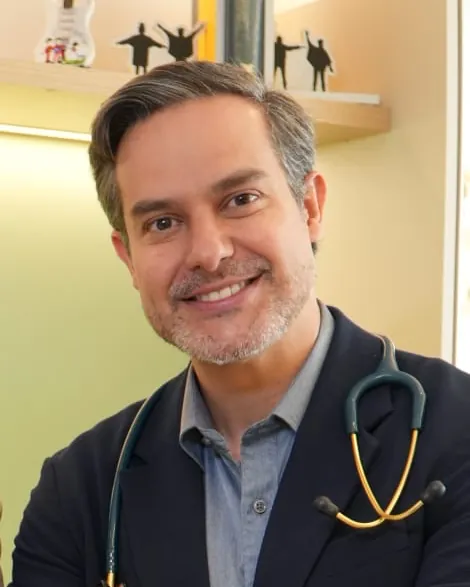
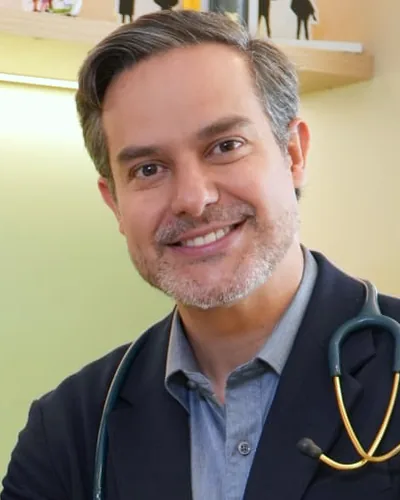
Bio: cards em retângulos, novos recortes, rodapé com monograma, TikTok

diff --git a/bio/index.html b/bio/index.html
@@ -81,37 +81,48 @@ a:focus-visible{outline:2px solid var(--gold-ink);outline-offset:4px}
 p{max-width:60ch}
 .sr{position:absolute;width:1px;height:1px;overflow:hidden;clip:rect(0 0 0 0);white-space:nowrap}
 
+/* os três caminhos: o mesmo retângulo (mesmo fundo, margem e padding) */
+.item{background:var(--field);border-radius:6px;padding:20px}
+.item + .item{margin-top:16px}
+
 /* consulta e vacinação: foto real + texto + o mesmo botão */
 .pessoa{display:grid;grid-template-columns:112px minmax(0,1fr);column-gap:18px;align-items:center}
-.pessoa .foto{width:100%;height:auto;aspect-ratio:4/5;object-fit:cover;display:block;background:var(--field)}
+.pessoa .foto{width:100%;height:auto;aspect-ratio:4/5;object-fit:cover;display:block;border-radius:3px;background:var(--bg)}
 .pessoa .btn{grid-column:1 / -1}
-.consulta{background:var(--field);margin:0 calc(var(--m) * -1);padding:24px var(--m)}
-.vacina{padding:32px 0 8px}
 
 .btn{
   display:flex;align-items:center;justify-content:center;gap:10px;
-  min-height:52px;padding:0 26px;margin-top:22px;border-radius:3px;
+  min-height:52px;padding:0 26px;margin-top:20px;border-radius:3px;
   background:var(--gold);color:var(--on-gold);font-weight:700;font-size:16px;
   transition:transform .15s,background-color .2s;
 }
 .btn svg{width:20px;height:20px;flex:none}
 .btn:hover{background:var(--gold-ink)}
 .btn:active{transform:scale(.98)}
-/* livro: mesma forma, sem o dourado cheio (é outra ação) */
-.btn-2{background:var(--field);color:var(--gold-ink)}
+/* livro: mesma forma e tamanho, cor diferente (é outra ação) */
+.btn-2{background:#223a6c;color:var(--gold-ink)}
 .btn-2 svg{width:18px;height:18px;transition:transform .2s}
-.livro:hover .btn-2{background:#1b3160}
+.livro:hover .btn-2{background:#29457f}
 .livro:hover .btn-2 svg{transform:translateX(4px)}
 
-/* livro: a capa inteira, sem corte */
-.livro{margin-top:40px}
-.livro .capa{margin:0 calc(var(--m) * -1);aspect-ratio:1200/630;overflow:hidden;background:var(--field)}
+/* livro: a capa inteira, dentro do retângulo */
+.livro{display:block}
+.livro .capa{aspect-ratio:1200/630;overflow:hidden;border-radius:3px;background:var(--bg)}
 .livro .capa img{width:100%;height:100%;object-fit:cover;display:block;transition:transform .5s}
 .livro:hover .capa img{transform:scale(1.015)}
-.livro .txt{padding-top:18px}
+.livro .txt{padding-top:16px}
 .livro .txt p{margin-top:0}
 
-footer{max-width:60ch;margin-top:64px;font-size:16px;line-height:1.6;color:var(--soft)}
+/* rodapé: fechamento com o monograma CC */
+.rodape{
+  margin-top:56px;padding-top:28px;
+  border-top:1px solid rgba(238,240,243,.10); /* taste-skill-ignore: separador pedido pelo cliente */
+  display:grid;grid-template-columns:44px minmax(0,1fr);column-gap:16px;row-gap:18px;align-items:center;
+}
+.rodape .cc{width:44px;height:auto;display:block}
+.rodape .clinica{font-family:var(--serif);font-weight:600;font-size:20px;line-height:1.2}
+.rodape .medico{font-size:15px;color:var(--soft);margin-top:4px}
+.rodape .ano{grid-column:1 / -1;font-size:14px;color:var(--soft)}
 
 /* entrada leve, só CSS */
 @keyframes sobe{from{opacity:0;transform:translateY(18px)}to{opacity:1;transform:none}}
@@ -138,18 +149,19 @@ footer{max-width:60ch;margin-top:64px;font-size:16px;line-height:1.6;color:var(-
   .titulos{font-size:20px;margin-top:16px}
   .impacto{font-size:26px;margin-top:28px}
   .caminhos{margin-top:0;padding-top:24px}
-  .pessoa{grid-template-columns:168px minmax(0,1fr);column-gap:32px;align-items:start}
+  .item{padding:28px}
+  .item + .item{margin-top:20px}
+  .pessoa{grid-template-columns:168px minmax(0,1fr);column-gap:28px;align-items:start}
   .pessoa .foto{grid-row:1 / span 2}
-  .pessoa .txt{padding-top:6px}
-  .pessoa .btn{grid-column:2;justify-self:start;margin-top:20px}
-  .consulta{margin:0;padding:32px}
-  .vacina{padding:40px 32px 8px}
+  .pessoa .txt{padding-top:4px}
+  .pessoa .btn{grid-column:2;align-self:end;justify-self:stretch;margin-top:16px}
   .item h2{font-size:36px}
-  .livro{margin-top:48px}
-  .livro .capa{margin:0}
-  .livro .txt{padding:22px 32px 0;display:flex;align-items:center;justify-content:space-between;gap:24px;flex-wrap:wrap}
+  .livro .txt{padding-top:20px;display:grid;grid-template-columns:minmax(0,1fr) auto;align-items:center;column-gap:24px}
   .livro .btn{margin-top:0}
-  footer{grid-column:1 / -1;margin-top:96px}
+  .rodape{grid-column:1 / -1;margin-top:88px;padding-top:32px;grid-template-columns:52px minmax(0,1fr) auto;column-gap:20px}
+  .rodape .cc{width:52px}
+  .rodape .clinica{font-size:22px}
+  .rodape .ano{grid-column:auto;text-align:right}
 }
 @media (min-width:900px) and (max-width:1099px){
   .wrap{grid-template-columns:minmax(0,1fr) minmax(0,1.2fr)}
@@ -157,8 +169,11 @@ footer{max-width:60ch;margin-top:64px;font-size:16px;line-height:1.6;color:var(-
   .hero img{width:360px}
   .pessoa{grid-template-columns:132px minmax(0,1fr);column-gap:24px}
   .item h2{font-size:32px}
+  .item{padding:24px}
   .pessoa .foto{grid-row:auto}
-  .pessoa .btn{grid-column:1 / -1;justify-self:stretch}
+  .pessoa .btn{grid-column:1 / -1}
+  .livro .txt{grid-template-columns:1fr}
+  .livro .btn{margin-top:16px}
 }
 @media (min-width:1600px){
   .wrap{padding-top:96px}
@@ -184,7 +199,7 @@ footer{max-width:60ch;margin-top:64px;font-size:16px;line-height:1.6;color:var(-
       <a href="https://www.facebook.com/profile.php?id=61596217534517" target="_blank" rel="noopener" aria-label="Facebook">
         <svg viewBox="0 0 24 24" fill="currentColor"><path d="M14 8h3V4h-3c-2.8 0-4 1.8-4 4.3V10H7v4h3v8h4v-8h3l1-4h-4V8.6c0-.4.3-.6.6-.6z"/></svg>
       </a>
-      <a href="#TIKTOK" target="_blank" rel="noopener" aria-label="TikTok">
+      <a href="https://www.tiktok.com/@pediatra.daniel.c" target="_blank" rel="noopener" aria-label="TikTok">
         <svg viewBox="0 0 24 24" fill="currentColor"><path d="M16.5 3c.4 2.2 1.8 3.7 4 4v3.2c-1.5 0-2.9-.4-4-1.2v6.3A6.3 6.3 0 1 1 10.2 9v3.3a3 3 0 1 0 3 3V3h3.3z"/></svg>
       </a>
     </nav>
@@ -194,10 +209,10 @@ footer{max-width:60ch;margin-top:64px;font-size:16px;line-height:1.6;color:var(-
   <section class="caminhos" aria-label="Consultas, vacinação e livro">
 
     <div class="item pessoa consulta">
-      <img class="foto" src="img/dr-daniel-consultorio.webp" alt="Dr. Daniel Caldas no consultório" width="470" height="587" loading="lazy">
+      <img class="foto" src="img/dr-daniel-consultorio.webp" alt="Dr. Daniel Caldas no consultório" width="400" height="500" loading="lazy">
       <div class="txt">
         <h2>Consultas pediátricas</h2>
-        <p>Caldas &amp; Caldas Pediatria e Clínica de Vacinação</p>
+        <p>Caldas &amp; Caldas Pediatria</p>
       </div>
       <a class="btn" href="https://wa.me/5564992954703?text=Ol%C3%A1%2C%20gostaria%20de%20agendar%20uma%20consulta!" target="_blank" rel="noopener">
         <svg viewBox="0 0 24 24" fill="currentColor" aria-hidden="true"><path d="M12 2a10 10 0 0 0-8.6 15.1L2 22l5-1.3A10 10 0 1 0 12 2zm0 18.2c-1.5 0-3-.4-4.2-1.2l-.3-.2-3 .8.8-2.9-.2-.3A8.2 8.2 0 1 1 12 20.2zm4.5-6.1c-.2-.1-1.5-.7-1.7-.8-.2-.1-.4-.1-.6.1l-.8 1c-.1.2-.3.2-.5.1a6.7 6.7 0 0 1-3.3-2.9c-.3-.4.2-.4.7-1.3.1-.2 0-.3 0-.4l-.8-1.8c-.2-.5-.4-.4-.6-.4h-.5c-.2 0-.4.1-.7.3-.2.3-.9.9-.9 2.2s.9 2.5 1 2.7c.1.2 1.8 2.8 4.4 3.9 1.6.7 2.3.8 3.1.6.5-.1 1.5-.6 1.7-1.2.2-.6.2-1.1.2-1.2-.1-.1-.3-.2-.5-.3z"/></svg>
@@ -206,7 +221,7 @@ footer{max-width:60ch;margin-top:64px;font-size:16px;line-height:1.6;color:var(-
     </div>
 
     <div class="item pessoa vacina">
-      <img class="foto" src="img/dr-daniel-pelucias.webp" alt="Dr. Daniel Caldas no consultório" width="440" height="550" loading="lazy">
+      <img class="foto" src="img/dr-daniel-pelucias.webp" alt="Dr. Daniel Caldas no consultório" width="400" height="500" loading="lazy">
       <div class="txt">
         <h2>Vacinação</h2>
         <p>Informações sobre vacinas com a equipe da Caldas &amp; Caldas.</p>
@@ -222,7 +237,7 @@ footer{max-width:60ch;margin-top:64px;font-size:16px;line-height:1.6;color:var(-
       <div class="capa"><img src="img/og.jpg" alt="Capa do livro Da Introdução Alimentar à Mesa da Família, com Dr. Daniel e Dr. Sebastião Caldas" loading="lazy"></div>
       <div class="txt">
         <h2 class="sr">Da Introdução Alimentar à Mesa da Família</h2>
-        <p>Dos 6 aos 24 meses · com Dr. Sebastião Caldas</p>
+        <p>Escrito com meu pai, Dr. Sebastião Caldas</p>
         <span class="btn btn-2">Conhecer o livro
           <svg viewBox="0 0 24 24" fill="none" stroke="currentColor" stroke-width="2.2" stroke-linecap="round" stroke-linejoin="round" aria-hidden="true"><path d="M5 12h14M13 6l6 6-6 6"/></svg>
         </span>
@@ -231,7 +246,14 @@ footer{max-width:60ch;margin-top:64px;font-size:16px;line-height:1.6;color:var(-
 
   </section>
 
-  <footer>Caldas &amp; Caldas Pediatria e Clínica de Vacinação<br>Dr. Daniel Caldas · CRM-GO 12.195 · RQE 8.175</footer>
+  <footer class="rodape">
+    <img class="cc" src="img/logo-cc.svg" alt="Caldas &amp; Caldas" width="52" height="44">
+    <div>
+      <p class="clinica">Caldas &amp; Caldas Pediatria e Clínica de Vacinação</p>
+      <p class="medico">Dr.&nbsp;Daniel Caldas · CRM-GO&nbsp;12.195 · RQE&nbsp;8.175</p>
+    </div>
+    <p class="ano">© 2026</p>
+  </footer>
 </main>
 
 </body>
